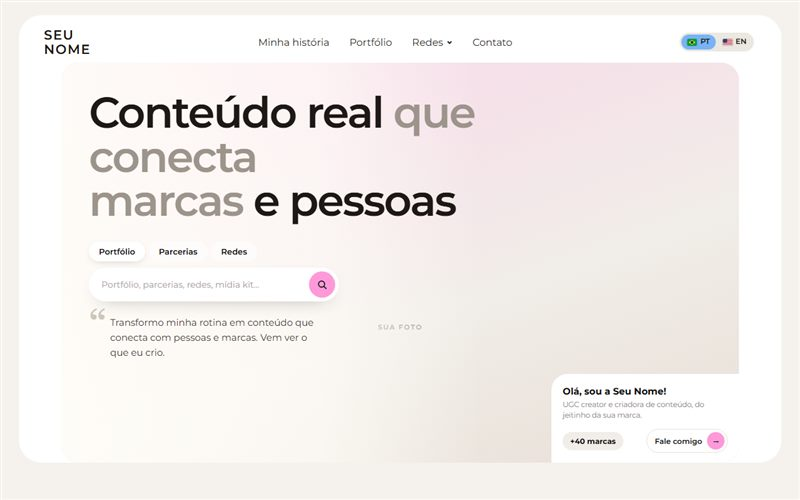
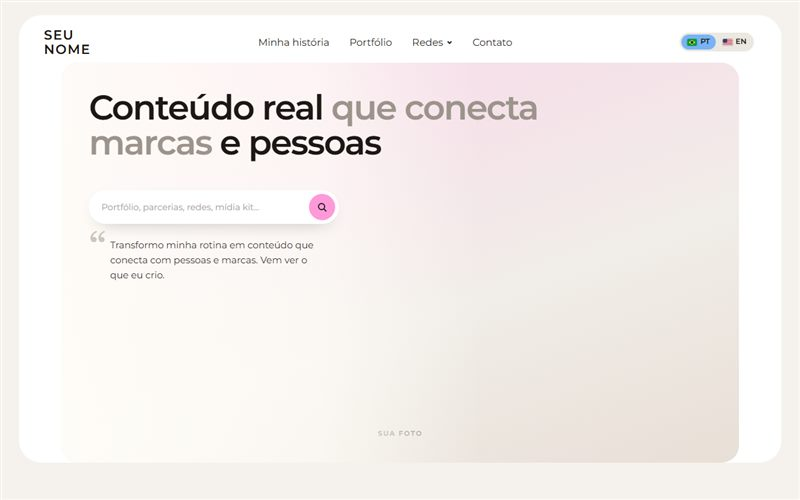
Atualiza index.html

diff --git a/modelos/biolink-01/index.html b/modelos/biolink-01/index.html
@@ -106,14 +106,10 @@ h1,h2,h3{font-family:var(--titulo);font-weight:700;text-transform:uppercase;marg
 
 /* ---------- capa: título de ponta a ponta, abas + pesquisa à esquerda, foto grande à direita ---------- */
 .capa{display:grid;gap:20px;padding-top:10px;padding-bottom:26px}
-.capa h1{position:relative;z-index:2;font-family:var(--sans);font-weight:600;text-transform:none;letter-spacing:-.035em;line-height:1.02;font-size:clamp(40px,11vw,92px);margin:0}
+.capa h1{position:relative;z-index:2;font-family:var(--sans);font-weight:600;text-transform:none;letter-spacing:-.035em;line-height:1.02;font-size:clamp(34px,9vw,60px);margin:0}
 .capa h1 span{color:#b9b1aa}
-/* abas */
-.abas{display:flex;gap:6px}
-.aba{padding:8px 16px;border-radius:999px;font-size:13px;font-weight:600;color:var(--tinta);transition:background .2s}
-.aba.ativa,.aba:hover{background:#fff;box-shadow:0 4px 14px -6px rgba(30,25,21,.25)}
 /* barra de pesquisa com o botão redondo */
-.pesquisa{display:flex;align-items:center;gap:8px;margin-top:10px;padding:6px 6px 6px 18px;border-radius:999px;background:#fff;box-shadow:0 10px 30px -18px rgba(30,25,21,.45)}
+.pesquisa{display:flex;align-items:center;gap:8px;margin-top:18px;padding:6px 6px 6px 18px;border-radius:999px;background:#fff;box-shadow:0 10px 30px -18px rgba(30,25,21,.45)}
 .pesquisa input{flex:1;min-width:0;border:0;outline:none;background:none;font:inherit;font-size:14px;color:var(--tinta)}
 .pesquisa input::placeholder{color:#a9a29b}
 .pesquisa button{flex:none;width:42px;height:42px;border:0;border-radius:50%;background:var(--rosa);cursor:pointer;display:grid;place-items:center;transition:transform .2s}
@@ -278,15 +274,19 @@ h1{font-weight:600;font-size:clamp(38px,11vw,70px);line-height:1;letter-spacing:
 .vitrines i{width:30px;height:30px;border-radius:50%;background:var(--tinta);color:#fff;display:grid;place-items:center;font-style:normal;font-size:13px}
 /* depoimentos */
 #depoimentos{margin-top:40px}
-.depoimentos{display:grid;gap:12px}
-.depo{margin:0;padding:22px 20px 18px;border-radius:22px;background:#fff;box-shadow:0 18px 34px -24px rgba(30,25,21,.35)}
+.depo-faixa{margin:0 calc(50% - 50vw);overflow:hidden}
+.depo-trilho{display:flex;width:max-content;animation:rolar 60s linear infinite}
+.depo-faixa:hover .depo-trilho{animation-play-state:paused}
+.depoimentos{display:flex;gap:14px;padding:4px 7px 30px}
+.depo{flex:none;width:280px}
+.depo{display:flex;flex-direction:column;margin:0;padding:22px 20px 18px;border-radius:22px;background:#fff;box-shadow:0 18px 34px -24px rgba(30,25,21,.35)}
 .depo blockquote{margin:0;font-size:14.5px;line-height:1.6;color:#2b2622}
 .depo blockquote::before{content:"“";display:block;height:24px;font-family:Georgia,serif;font-size:46px;line-height:1;color:var(--rosa)}
-.depo figcaption{display:grid;margin-top:14px;font-size:12px;color:#8b847e}
+.depo figcaption{display:grid;margin-top:auto;padding-top:14px;font-size:12px;color:#8b847e}
 .depo figcaption b{font-size:13.5px;color:var(--tinta)}
 
 /* capa: a foto ocupa a capa toda e o texto fica por cima */
-.capa{position:relative;isolation:isolate;align-content:start;min-height:min(calc(100svh - 150px),700px);padding:28px calc(var(--gutter) + 20px) 196px}
+.capa{position:relative;isolation:isolate;align-content:start;min-height:min(calc(100svh - 150px),700px);padding:28px calc(var(--gutter) + 20px) 60px}
 .capa-esquerda{position:relative;z-index:2}
 .capa .capa-foto{position:absolute;z-index:-1;inset:0 var(--gutter);aspect-ratio:auto;height:auto;margin:0}
 /* véu claro para o texto ler bem em cima de qualquer foto */
@@ -294,8 +294,7 @@ h1{font-weight:600;font-size:clamp(38px,11vw,70px);line-height:1;letter-spacing:
 .capa h1 span{color:#9d948c}
 .capa .citacao{color:#3b352f}
 .capa .citacao::before{color:#cfc5bb}
-.aba{background:rgba(255,255,255,.55)}
-.capa .foto-modelo{align-items:end;padding-bottom:210px}
+.capa .foto-modelo{align-items:end;padding-bottom:40px}
 .cartao-pilula{white-space:nowrap}
 .cartao-rodape{flex-wrap:wrap}
 
@@ -446,10 +445,9 @@ h1{font-weight:600;font-size:clamp(38px,11vw,70px);line-height:1;letter-spacing:
   /* capa compacta: cabe na tela sem rolar */
   /* foto mais estreita, texto e caixinhas mais largos */
   .capa{display:block;min-height:min(calc(100svh - 120px),640px);padding:44px calc(var(--gutter) + 44px) 48px}
-  .capa h1{font-size:clamp(50px,5.4vw,74px);max-width:880px}
+  .capa h1{font-size:clamp(40px,4.3vw,58px);max-width:760px}
   .capa-esquerda{max-width:400px;padding-top:30px}
   .capa .capa-foto::after{background:linear-gradient(90deg,rgba(255,253,248,.94),rgba(255,253,248,.7) 38%,rgba(255,253,248,0) 62%)}
-  .capa-cartao{width:300px}
   .sobre-mim{grid-template-columns:minmax(0,.8fr) minmax(0,1.2fr);gap:48px;padding:44px 48px;margin-top:56px;align-items:start}
   .sobre-mim h2{font-size:56px}
   .sobre-texto .sobre-abre{font-size:21px}
@@ -487,7 +485,6 @@ h1{font-weight:600;font-size:clamp(38px,11vw,70px);line-height:1;letter-spacing:
   .grade-duas{grid-template-columns:1fr 1fr;align-items:stretch;margin-top:48px}
   .cupons-cartao .cupons{grid-template-columns:repeat(3,1fr)}
   .vitrines{grid-template-columns:1fr 1fr}
-  .depoimentos{grid-template-columns:repeat(3,1fr)}
   .cartao-claro{padding:30px 28px 28px}
   .cartao-claro h2{font-size:48px}
 
@@ -570,12 +567,7 @@ h1{font-weight:600;font-size:clamp(38px,11vw,70px);line-height:1;letter-spacing:
     <h1>Conteúdo real <span>que conecta</span><br><span>marcas</span> e pessoas</h1>
 
     <div class="capa-esquerda">
-      <!-- abas + barra de pesquisa: as abas levam direto ao link; a pesquisa procura nos links da página -->
-      <div class="abas" role="group" aria-label="Atalhos">
-        <a class="aba ativa" href="#portfolio">Portfólio</a>
-        <a class="aba js-whats" href="#conversar" target="_blank" rel="noopener">Parcerias</a>
-        <a class="aba js-abre-redes" href="#caixa-redes">Redes</a>
-      </div>
+      <!-- barra de pesquisa: procura nos links da página -->
       <form class="pesquisa" id="pesquisa" role="search">
         <input type="search" id="pesquisa-texto" placeholder="Portfólio, parcerias, redes, mídia kit…" aria-label="Pesquisar nos links">
         <button type="submit" aria-label="Pesquisar"><svg viewBox="0 0 24 24" aria-hidden="true"><circle cx="11" cy="11" r="6.5"/><path d="m16 16 4.5 4.5"/></svg></button>
@@ -587,15 +579,6 @@ h1{font-weight:600;font-size:clamp(38px,11vw,70px);line-height:1;letter-spacing:
     <!-- FOTO DA CAPA: troque o bloco "foto-modelo" por <img src="fotos/capa.jpg" alt="..."> (foto horizontal ou vertical, com fundo) -->
     <div class="capa-foto">
       <div class="foto-modelo">Sua foto</div>
-      <!-- EDITAR: cartão no canto da foto -->
-      <div class="capa-cartao">
-        <b>Olá, sou a Seu Nome!</b>
-        <small>UGC creator e criadora de conteúdo, do jeitinho da sua marca.</small>
-        <div class="cartao-rodape">
-          <span class="cartao-pilula">+40 marcas</span>
-          <a class="js-whats" href="#conversar" target="_blank" rel="noopener" aria-label="Fale comigo no WhatsApp"><span data-pt="Fale comigo">Fale comigo</span><i aria-hidden="true">→</i></a>
-        </div>
-      </div>
     </div>
   </section>
   </div>
@@ -675,8 +658,6 @@ h1{font-weight:600;font-size:clamp(38px,11vw,70px);line-height:1;letter-spacing:
         <ul class="fatos">
           <li>Fato 1</li><li>Fato 2</li><li>Fato 3</li>
         </ul>
-        <!-- EDITAR: assinatura no fim da história -->
-        <p class="assina-historia">com carinho, Seu Nome</p>
       </div>
     </div>
   </section>
@@ -701,11 +682,16 @@ h1{font-weight:600;font-size:clamp(38px,11vw,70px);line-height:1;letter-spacing:
   <section class="miolo revela" id="depoimentos" aria-label="Depoimentos">
     <p class="marcas-titulo">O que as marcas dizem</p>
     <!-- EDITAR: um cartão por depoimento -->
+    <!-- a lista roda sozinha de ponta a ponta; o script duplica para o giro não ter emenda -->
+    <div class="depo-faixa"><div class="depo-trilho" id="trilhoDepo">
     <div class="depoimentos">
       <figure class="depo"><blockquote>O vídeo virou o nosso melhor anúncio do mês. Entrega rápida e muito cuidadosa.</blockquote><figcaption><b>@marcaum</b><span>Criativo para anúncio</span></figcaption></figure>
       <figure class="depo"><blockquote>Ela entendeu o produto melhor que a gente. Parecia uma cliente real indicando.</blockquote><figcaption><b>@marcadois</b><span>UGC para e-commerce</span></figcaption></figure>
       <figure class="depo"><blockquote>Já fechamos o terceiro pacote. Conteúdo lindo e que vende.</blockquote><figcaption><b>@marcatres</b><span>Publi no perfil</span></figcaption></figure>
+      <figure class="depo"><blockquote>Super profissional, cumpriu todos os prazos e ainda trouxe ideias novas.</blockquote><figcaption><b>@marcaquatro</b><span>Pacote de vídeos</span></figcaption></figure>
+      <figure class="depo"><blockquote>As fotos ficaram lindas e já estão no nosso site.</blockquote><figcaption><b>@marcacinco</b><span>Fotos de produto</span></figcaption></figure>
     </div>
+    </div></div>
   </section>
 
   <!-- ================= CUPONS E VITRINES (no fim da página) ================= -->
@@ -793,6 +779,12 @@ const iconeMarca = m => m.logo
 const voltas = Math.max(1, Math.ceil(16 / MARCAS.length));
 const listaMarcas = Array.from({ length: voltas }, () => MARCAS.map(iconeMarca).join("")).join("");
 document.getElementById("faixaMarcas").innerHTML = `<ul aria-label="Marcas atendidas">${listaMarcas}</ul><ul aria-hidden="true">${listaMarcas}</ul>`;
+
+// Depoimentos: copia a lista uma vez para a faixa rodar sem emenda
+const trilhoDepo = document.getElementById("trilhoDepo");
+const copiaDepo = trilhoDepo.firstElementChild.cloneNode(true);
+copiaDepo.setAttribute("aria-hidden", "true");
+trilhoDepo.appendChild(copiaDepo);
 
 // Aviso rápido no rodapé da tela
 const aviso = document.getElementById("aviso");
@@ -951,11 +943,6 @@ formPesquisa.addEventListener("submit", e => {
   filtraLinks();
   document.getElementById("links").scrollIntoView({ behavior: "smooth", block: "start" });
 });
-// Abas da capa: a que foi tocada fica marcada
-document.querySelectorAll(".abas .aba").forEach(a => a.addEventListener("click", () => {
-  document.querySelectorAll(".abas .aba").forEach(b => b.classList.toggle("ativa", b === a));
-}));
-
 // Entrada suave dos blocos
 const obs = "IntersectionObserver" in window && new IntersectionObserver(es => es.forEach(e => {
   if (e.isIntersecting) { e.target.classList.add("visivel"); obs.unobserve(e.target); }

diff --git a/cliente/index.html b/cliente/index.html
@@ -540,7 +540,7 @@ document.getElementById("sair").addEventListener("click", () => { location.href 
 //   link: endereço para "Ver o modelo" | imagem: caminho da imagem de capa (ex.: "../fotos/modelos/01.jpg")
 //   estilo: só para os modelos provisórios sem imagem ("clean", "colorido" ou "elegante")
 const MODELOS = [
-  { tipo: "Bio link",  nome: "Diário de creator", categoria: "Clean e fofo", link: "../modelos/biolink-01/", imagem: "../fotos/modelos/bio-01.jpg?v=5" },
+  { tipo: "Bio link",  nome: "Diário de creator", categoria: "Clean e fofo", link: "../modelos/biolink-01/", imagem: "../fotos/modelos/bio-01.jpg?v=6" },
   { tipo: "Portfólio", nome: "Editorial creme e azul", categoria: "Editorial", link: "../modelos/estilo-01/", imagem: "../fotos/modelos/01.jpg?v=5" },
   { tipo: "Portfólio", nome: "Scrapbook rosa e amarelo", categoria: "Divertido", link: "../modelos/estilo-02/", imagem: "../fotos/modelos/02.jpg?v=4" },
   { tipo: "Portfólio", nome: "Editor flutuante", categoria: "Moderno", link: "../modelos/estilo-03/", imagem: "../fotos/modelos/03.jpg?v=7" },
